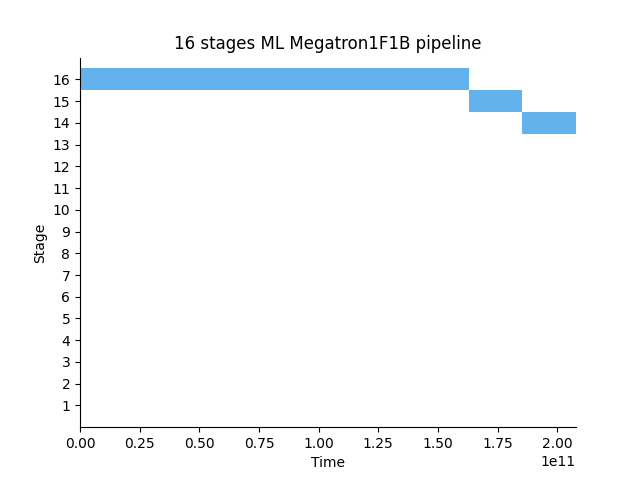
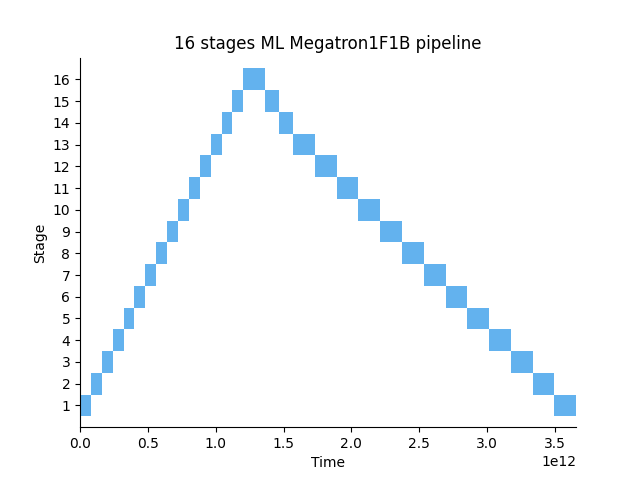
fix some bugs

diff --git a/simpy/tile_dataflow.py b/simpy/tile_dataflow.py
@@ -150,7 +150,7 @@ class Tile():# for compute process
         acc_op_wsg_size=0
         acc_op_intra_act_size=0
         #acc_op_output_act_size=0 #mulc(op_list[-1].i_shape) no store
-        #print(len(op_list))
+        print(len(op_list))
         dataflow0=dataflow.WS
         sram1=store_strategy.cache
         recomputes2=recompute_strategy.none
@@ -238,6 +238,7 @@ class Tile():# for compute process
         self.analysis_forward_process(self.env,map_ana,device,op_list,wd1)
         self.analysis_backward_process(self.env,map_ana,device,op_list,wd1)
         self.analysis_weight_update_process(self.env,map_ana,device,op_list,wd1)
+        print(map_ana)
         return  map_ana
     
     def analysis_forward_process(self,env,map_ana:list,device:List[int],op_list:List[OpNode],wd1:wd):
@@ -861,25 +862,24 @@ class Tile():# for compute process
             self.update_event.append(analysis_template_event(update_param))
 
     def execute_forward_process(self):
+        #print("execute_forward_process start @ {:.3f} ms".format(self.env.now))
         for events in self.forward_event:
             execute_event=[self.env.process(event) for event in events]
-            yield simpy.AnyOf(self.env,execute_event)
+            yield simpy.AllOf(self.env,execute_event)
+        #print("execute_forward_process end @ {:.3f} ms".format(self.env.now))
     def execute_backward_process(self):
-        yield self.env.timeout(10)
-        '''
         for index,_ in enumerate(self.dloss_event):
             if self.recompute_event[index]!=None:
                 execute_event=[self.env.process(event) for event in self.recompute_event[index]]
-                yield simpy.AnyOf(self.env,execute_event)
+                yield simpy.AllOf(self.env,execute_event)
             execute_event=[self.env.process(event) for event in self.dloss_event[index]]
-            yield simpy.AnyOf(self.env,execute_event)
+            yield simpy.AllOf(self.env,execute_event)
             execute_event=[self.env.process(event) for event in self.dW_event[index]]
-            yield simpy.AnyOf(self.env,execute_event)
-       ''' 
+            yield simpy.AllOf(self.env,execute_event)
     def execute_update_process(self):
         for events in self.update_event:
             execute_event=[self.env.process(event) for event in events]
-            yield simpy.AnyOf(self.env,execute_event)
+            yield simpy.AllOf(self.env,execute_event)
 
     
 

diff --git a/simpy/pipeline.py b/simpy/pipeline.py
@@ -49,7 +49,7 @@ class Stage():
                 t_last=env.now
                 #print('time:{},start forward'.format(round(env.now, 2)))
                 #TODO 修改为数据流执行
-                yield env.timeout(20)
+                #yield env.timeout(20)
                 yield env.process(self.tile.execute_forward_process())
                 self.trace.append((t_last,env.now,0))
             if self.next_core_id!=None and self.next_core_id!=[]:
@@ -151,7 +151,6 @@ class Stages():
         for i in range(self.pipe_times):
             self.env.process(self.pipeline_execute_forward_process())
             self.env.process(self.pipeline_execute_backward_process())
-            #self.env.timeout(1e-11)
     def simpy_run(self,until=2000):
         print('----------simpy_run----------')
         sim_start_t=time.time()
